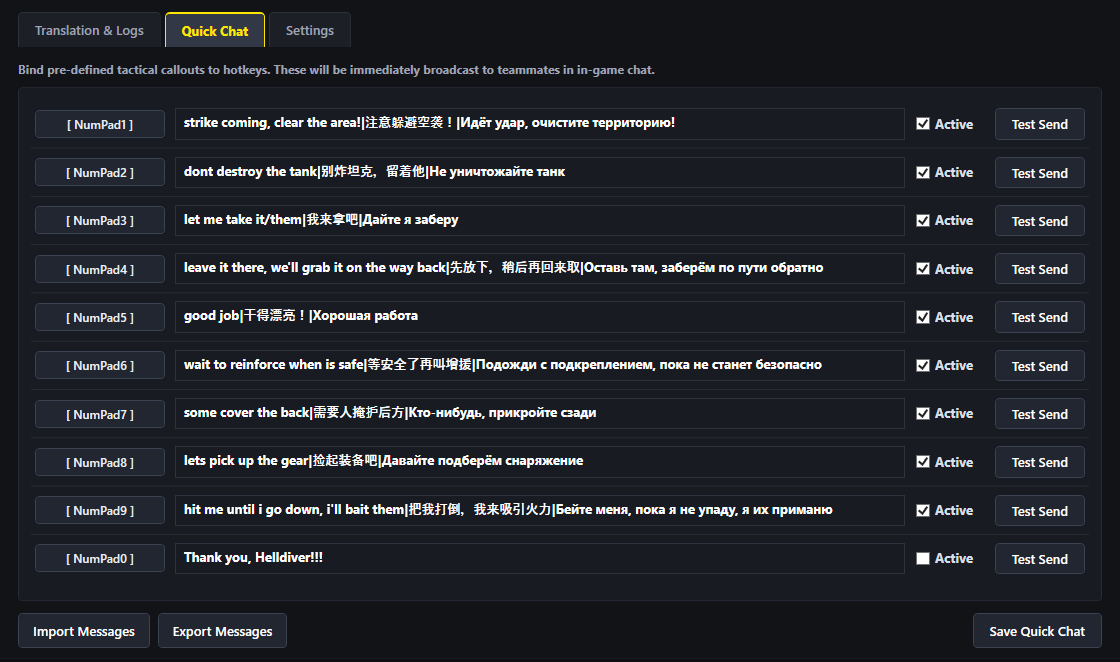
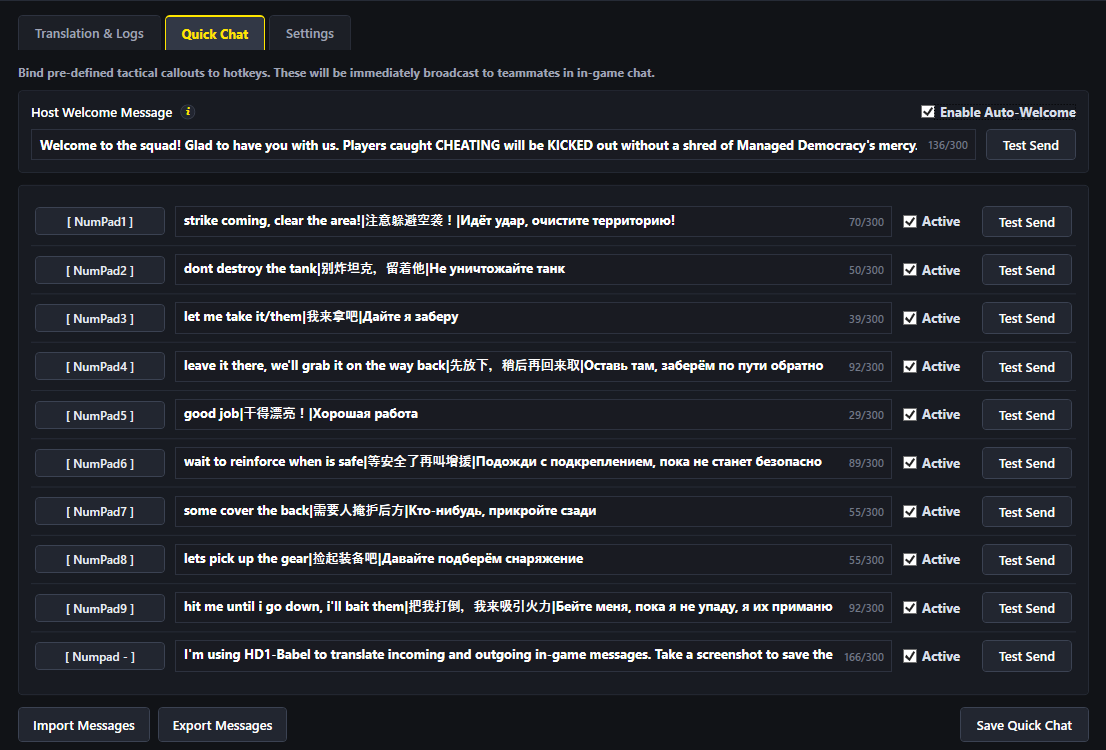
docs: update the readme

diff --git a/README.md b/README.md
@@ -45,11 +45,14 @@
 
 ![Quick Chat](docs/quick-chat.png)
 
+- **Auto-Welcome Quick Chat Message:** Automatically broadcasts a customizable welcome message to in-game chat when hosting a lobby and a guest player joins.
 - **On-Screen Quick Chat Reference Overlay:** Toggle a non-activating floating reference overlay on the right side of the screen with `Numpad +` (or your recorded shortcut) to quickly inspect all active tactical callouts and shortcuts in-game. *(Requires Helldivers to run in Borderless Fullscreen or Windowed mode).*
 
 ![Quick Chat overlay](docs/overlay.png)
 
+- **Multi-Language UI Support:** Supports 28 Languages.
 - **Provider Adapter Architecture:** Built with a modular AI provider interface. Comes with an optimized, zero-thinking adapter for **Google Gemini** (`gemini-flash-lite-latest` / `gemini-2.0-flash-lite`), with extensible provider contracts for OpenAI, Claude, and DeepSeek (not implemented yet).
+- **Translation Tone Setting:** Casual: informal gaming slang and tactical gamer lingo / Normal: natural conversational tone without gaming slang.
 - **Global Pause / Resume Hotkey:** Press `Ctrl + F10` (or your configured shortcut) anytime to toggle the assistant between **Active** and **Paused**. Pausing cleanly suspends both in-game chat translation and Quick Chat message broadcasts.
 - **Dedicated Feature Hotkeys:**
   - **Toggle Translation Only:** Press `Ctrl + F11` (or your recorded shortcut) to instantly pause or resume chat translation without affecting Quick Chat (with on-screen toast feedback).
